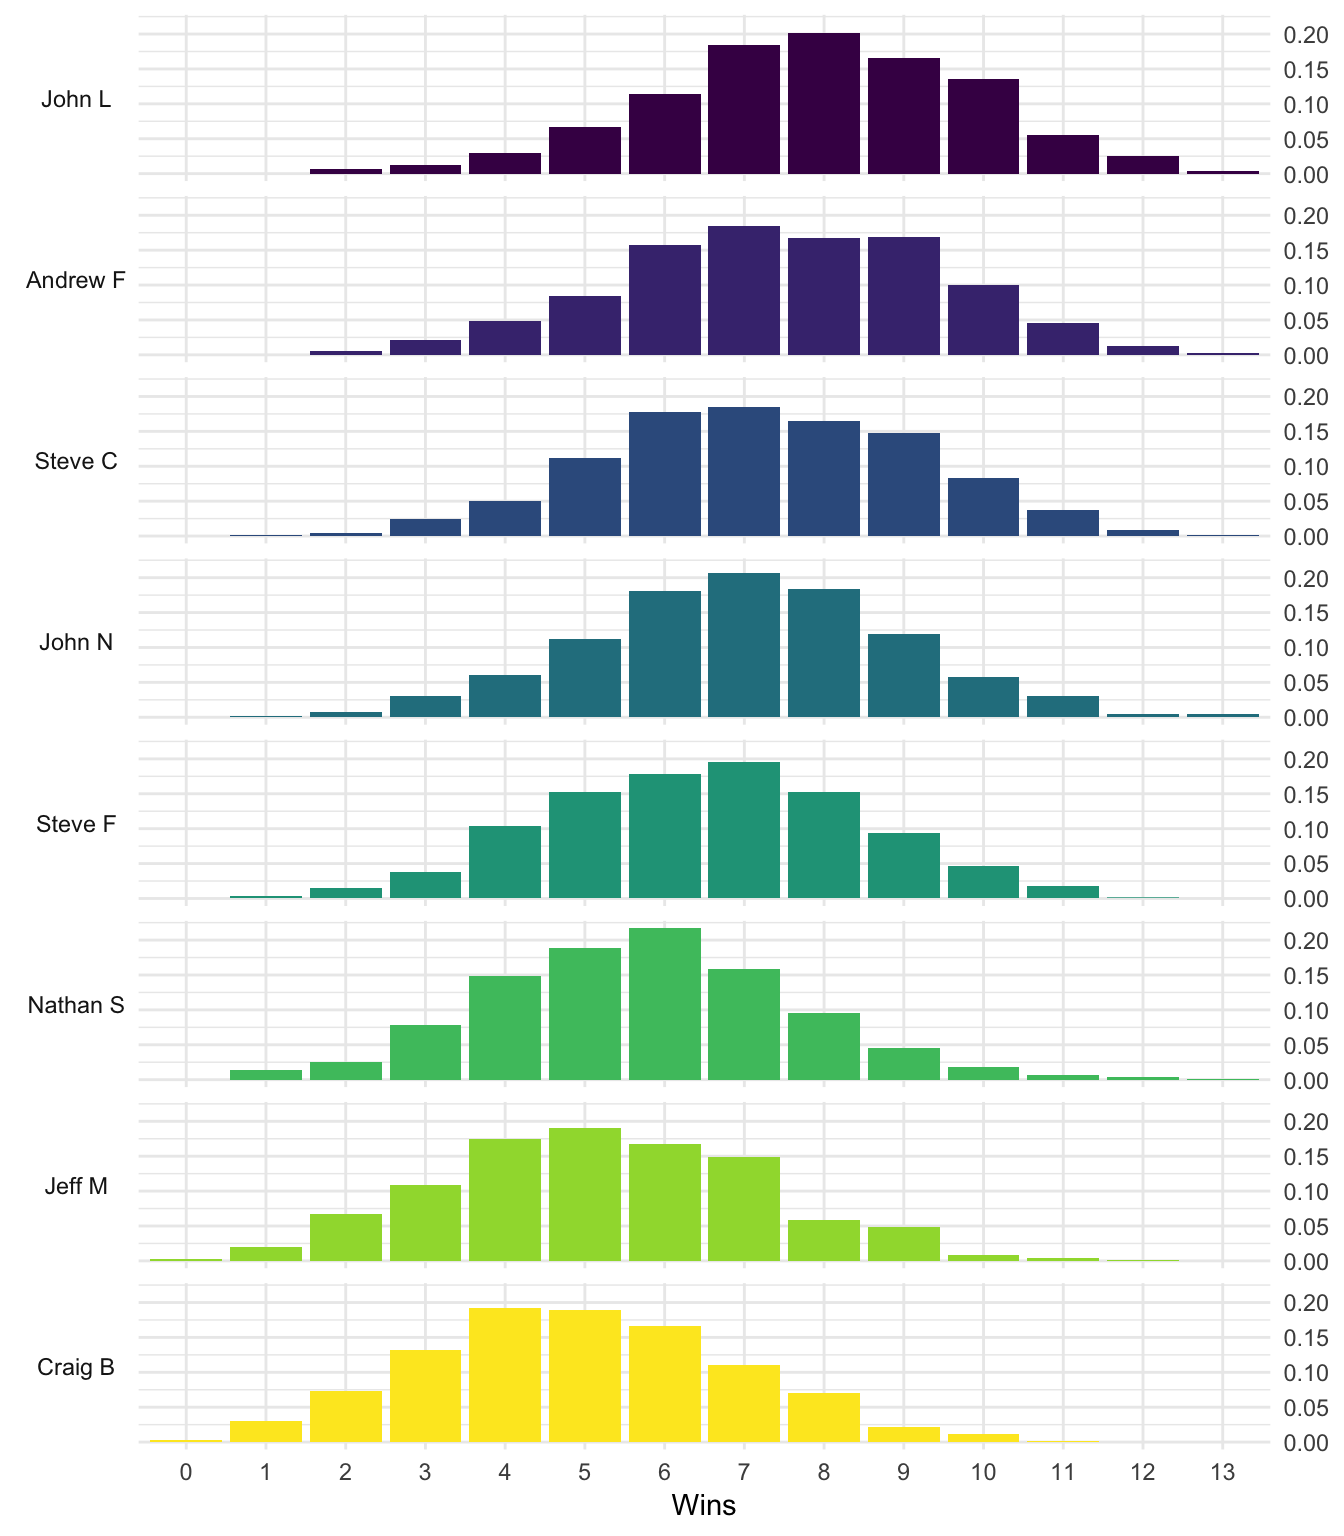
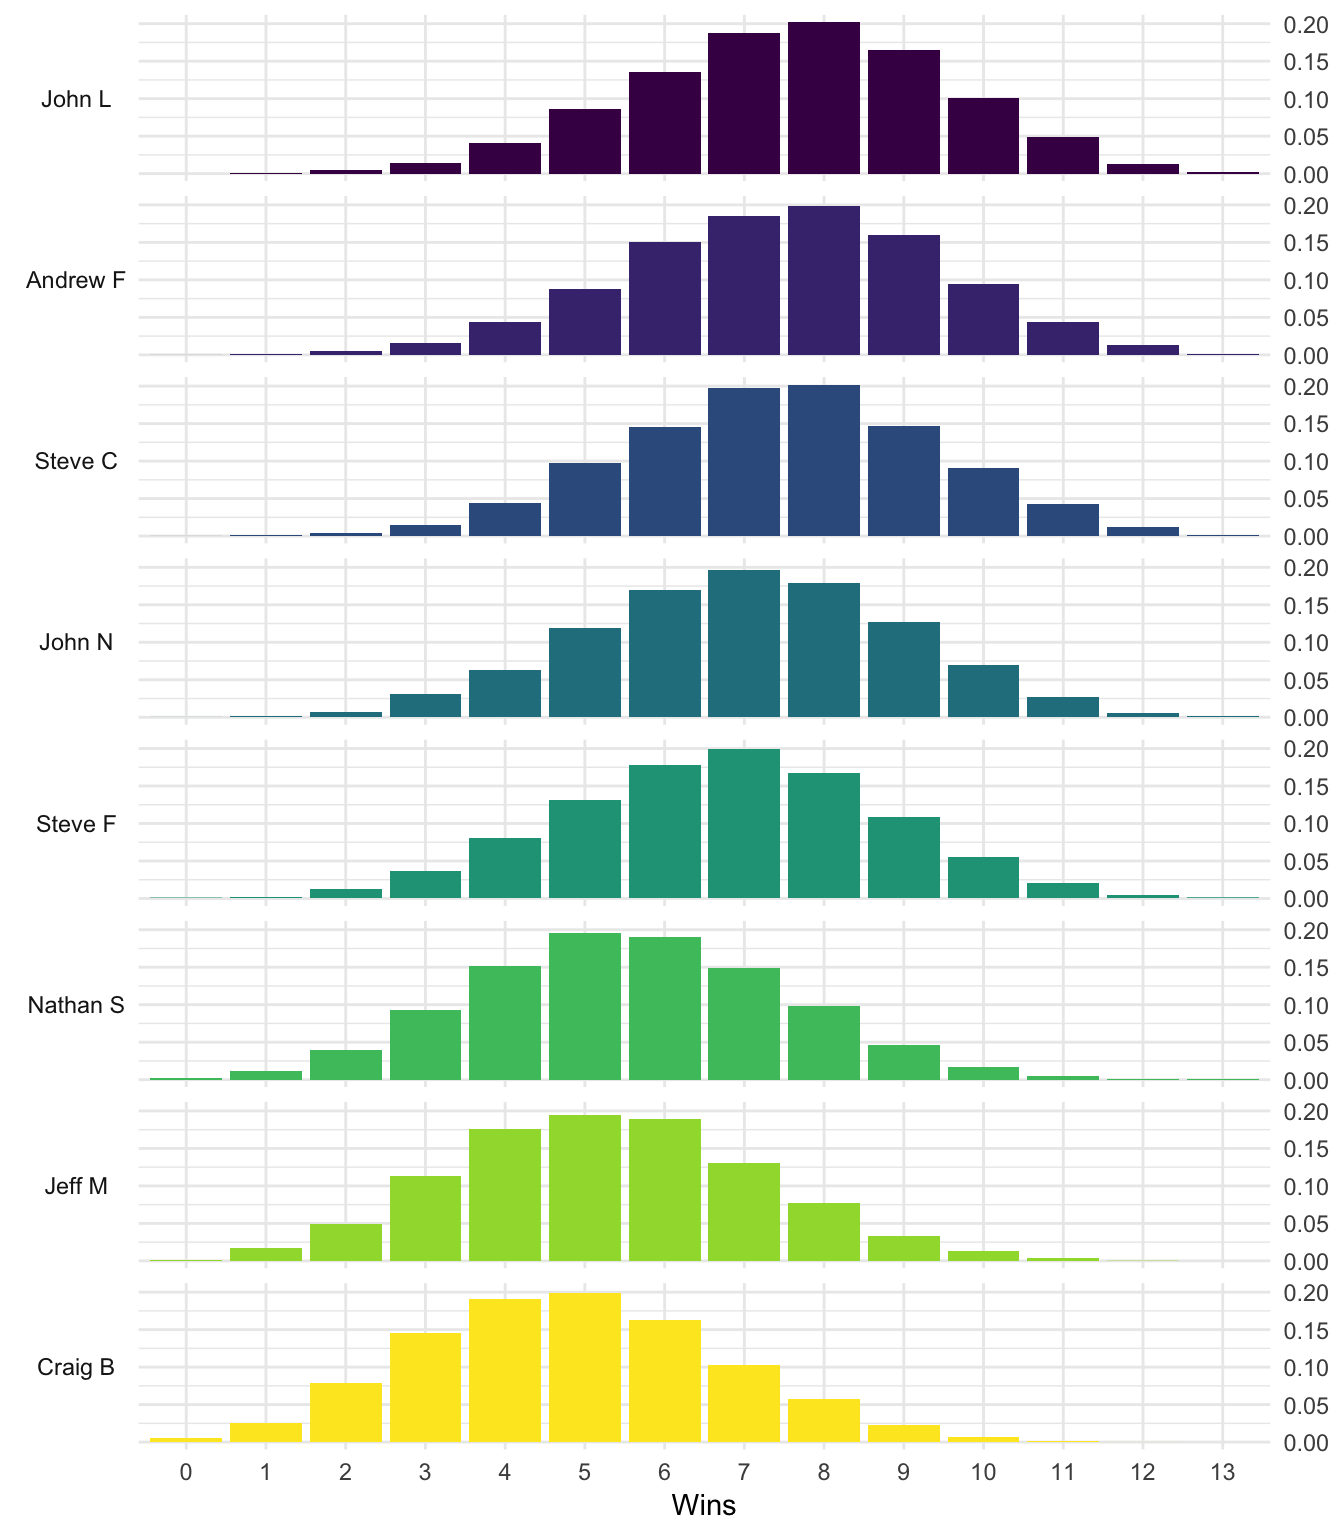
Revised 2018 season preview

diff --git a/content/post/2018-09-01-2018-fantasy-football-season-preview.html b/content/post/2018-09-01-2018-fantasy-football-season-preview.html
@@ -9,12 +9,11 @@ tags: []
 <!-- BLOGDOWN-HEAD -->
 <!-- /BLOGDOWN-HEAD -->
 
-
 <div id="the-2018-season-is-here" class="section level2">
 <h2>The 2018 season is here!</h2>
 <p>It’s a clean slate, with all owners tied for first place at 0 wins. Will this be your year?</p>
 <p>Although no games have been played, we do know a little bit about the strength of each owner using Elo ratings, so we can make some early predictions. Elo ratings from the end of the 2017 season have been reverted back towards the mean slightly, and are shown in the table below.</p>
-<p>Simulating the 2018 season 1000 times, John L is our most likely regular season champion, with a 34.1% chance of taking home the title.</p>
+<p>Simulating the 2018 season 10,000 times, John L is our most likely regular season champion, with a 22.1% chance of taking home the title.</p>
 <table>
 <thead>
 <tr>
@@ -41,16 +40,16 @@ P(1st)
 John L
 </td>
 <td style="text-align:center;">
-1562
+1552
 </td>
 <td style="text-align:center;">
 0
 </td>
 <td style="text-align:center;">
-7.90
+7.60
 </td>
 <td style="text-align:center;">
-0.341
+0.221
 </td>
 </tr>
 <tr>
@@ -58,16 +57,16 @@ John L
 Andrew F
 </td>
 <td style="text-align:center;">
-1548
+1551
 </td>
 <td style="text-align:center;">
 0
 </td>
 <td style="text-align:center;">
-7.48
+7.50
 </td>
 <td style="text-align:center;">
-0.227
+0.208
 </td>
 </tr>
 <tr>
@@ -75,16 +74,16 @@ Andrew F
 Steve C
 </td>
 <td style="text-align:center;">
-1541
+1549
 </td>
 <td style="text-align:center;">
 0
 </td>
 <td style="text-align:center;">
-7.22
+7.45
 </td>
 <td style="text-align:center;">
-0.173
+0.198
 </td>
 </tr>
 <tr>
@@ -92,16 +91,16 @@ Steve C
 John N
 </td>
 <td style="text-align:center;">
-1522
+1521
 </td>
 <td style="text-align:center;">
 0
 </td>
 <td style="text-align:center;">
-7.00
+7.01
 </td>
 <td style="text-align:center;">
-0.113
+0.147
 </td>
 </tr>
 <tr>
@@ -109,16 +108,16 @@ John N
 Steve F
 </td>
 <td style="text-align:center;">
-1507
+1518
 </td>
 <td style="text-align:center;">
 0
 </td>
 <td style="text-align:center;">
-6.51
+6.76
 </td>
 <td style="text-align:center;">
-0.072
+0.127
 </td>
 </tr>
 <tr>
@@ -126,16 +125,16 @@ Steve F
 Nathan S
 </td>
 <td style="text-align:center;">
-1462
+1454
 </td>
 <td style="text-align:center;">
 0
 </td>
 <td style="text-align:center;">
-5.72
+5.58
 </td>
 <td style="text-align:center;">
-0.033
+0.045
 </td>
 </tr>
 <tr>
@@ -143,16 +142,16 @@ Nathan S
 Jeff M
 </td>
 <td style="text-align:center;">
-1432
+1438
 </td>
 <td style="text-align:center;">
 0
 </td>
 <td style="text-align:center;">
-5.23
+5.28
 </td>
 <td style="text-align:center;">
-0.023
+0.034
 </td>
 </tr>
 <tr>
@@ -160,16 +159,16 @@ Jeff M
 Craig B
 </td>
 <td style="text-align:center;">
-1425
+1418
 </td>
 <td style="text-align:center;">
 0
 </td>
 <td style="text-align:center;">
-4.94
+4.83
 </td>
 <td style="text-align:center;">
-0.018
+0.021
 </td>
 </tr>
 </tbody>
@@ -177,7 +176,7 @@ Craig B
 </div>
 <div id="predicted-win-totals" class="section level2">
 <h2>Predicted Win Totals</h2>
-<p>The graphic below shows the distribution of possible win totals for each owner generated by simulating the remaining 13 weeks of the season 1000 times.</p>
+<p>The graphic below shows the distribution of possible win totals for each owner generated by simulating the remaining 13 weeks of the season 10,000 times.</p>
 <p><img src="/post/2018-09-01-2018-fantasy-football-season-preview_files/figure-html/unnamed-chunk-6-1.png" width="672" style="display: block; margin: auto;" /></p>
 </div>
 <div id="predictions-for-week-1" class="section level2">
@@ -207,7 +206,7 @@ John N over Craig B
 Steve C over Steve F
 </td>
 <td style="text-align:center;">
-0.55
+0.54
 </td>
 </tr>
 <tr>
@@ -215,7 +214,7 @@ Steve C over Steve F
 Nathan S over Jeff M
 </td>
 <td style="text-align:center;">
-0.54
+0.52
 </td>
 </tr>
 <tr>
@@ -223,7 +222,7 @@ Nathan S over Jeff M
 John L over Andrew F
 </td>
 <td style="text-align:center;">
-0.52
+0.50
 </td>
 </tr>
 </tbody>
